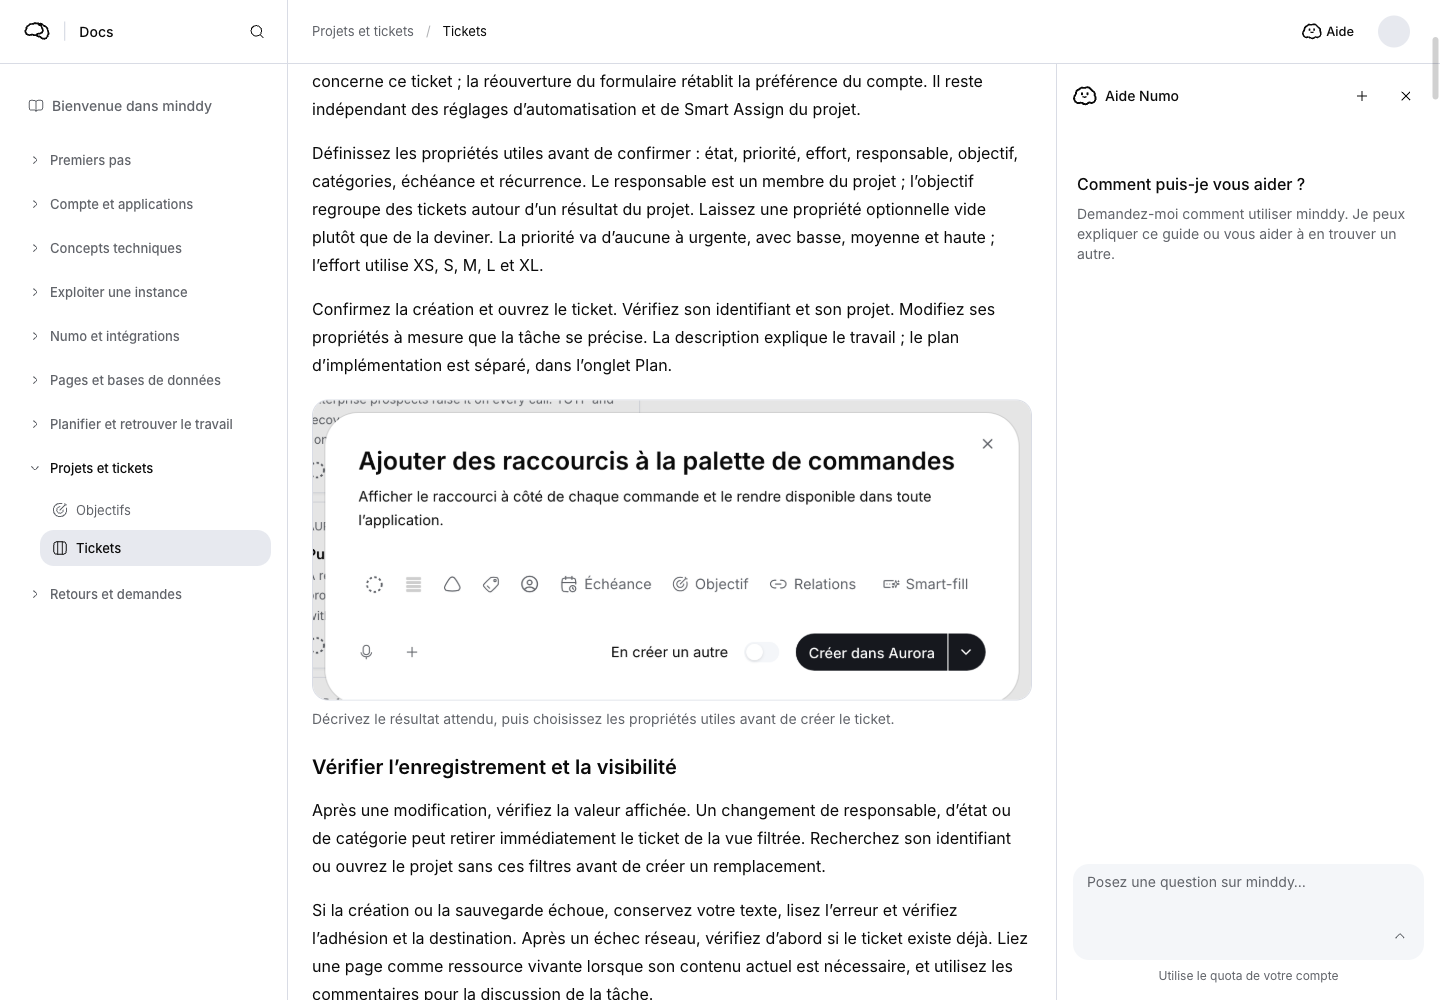
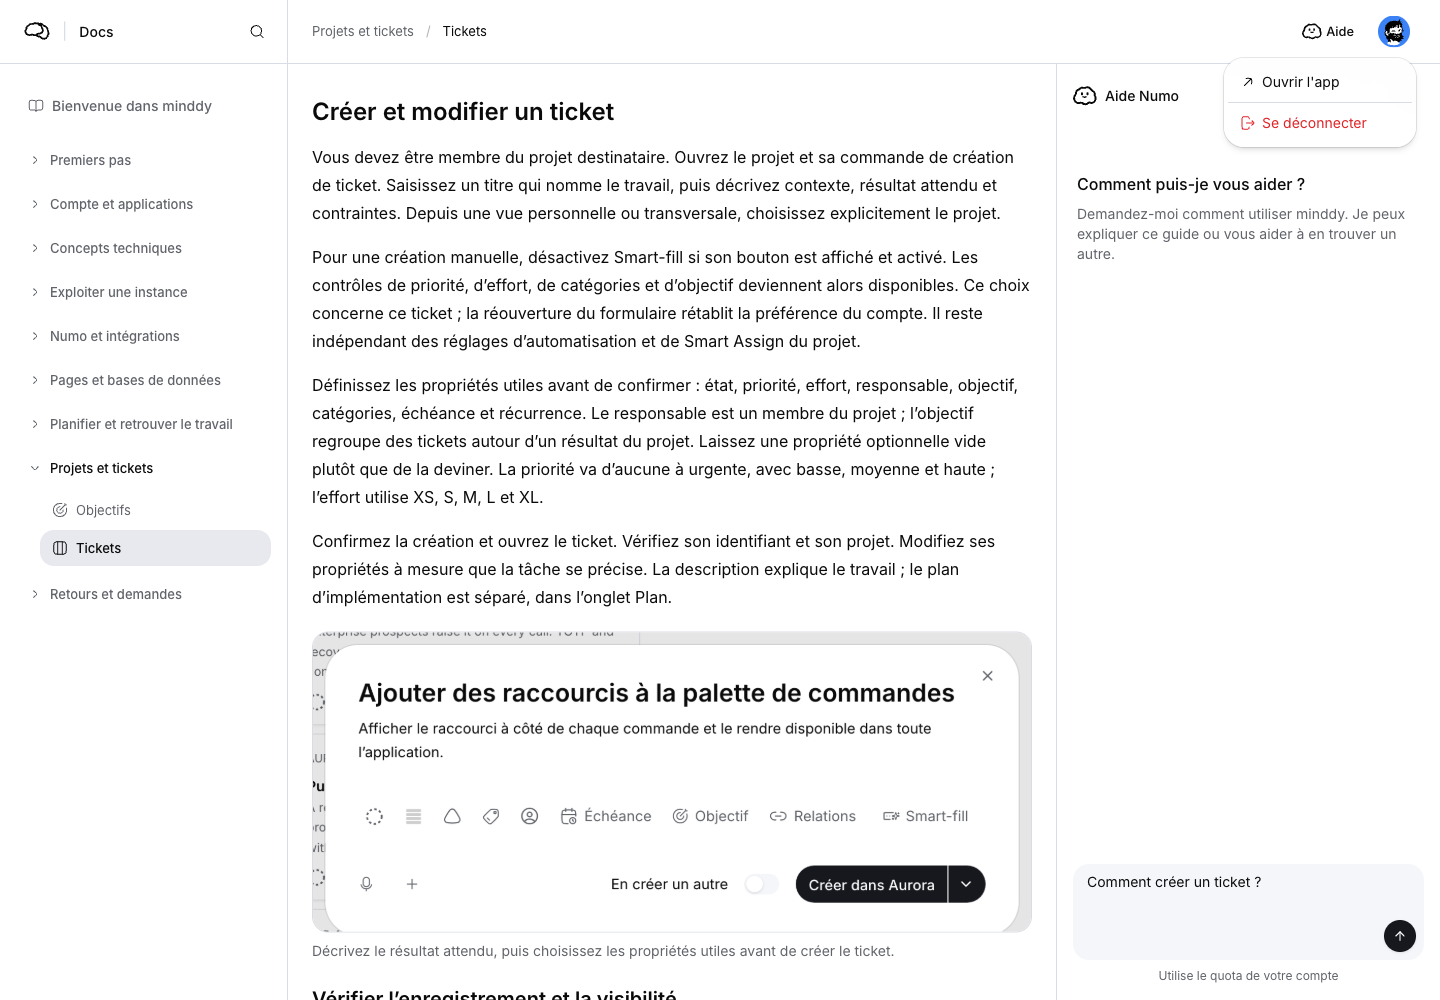
fix: add documentation account menu and reuse Numo send button

diff --git a/components/documentation/documentation-session.tsx b/components/documentation/documentation-session.tsx
@@ -4,13 +4,17 @@ import { createContext, useContext, useEffect, useState, type ReactNode } from "
 import dynamic from "next/dynamic";
 import Link from "next/link";
 import { useTranslations } from "next-intl";
-import { Button } from "mangue-ui";
+import { Button, DropdownMenu, DropdownMenuContent, DropdownMenuItem, DropdownMenuSeparator, DropdownMenuTrigger } from "mangue-ui";
+import { HugeiconsIcon } from "@hugeicons/react";
+import { ArrowUpRight01Icon, LogOutIcon } from "@hugeicons/core-free-icons";
+import { toast } from "sonner";
 import { AuthProvider, useAuth, useAuthOptional } from "@/lib/auth-context";
 import { useRuntimeConfig } from "@/lib/runtime-config-provider";
 import { AccountQueryProvider } from "@/lib/account-query-provider";
 import { useMyAvatarSource } from "@/lib/use-my-avatar";
 import { UserAvatar } from "@/components/user-avatar";
 import { NumoFace } from "@/components/numo-face";
+import { LazyToaster } from "@/components/lazy-toaster";
 import { documentationPath } from "@/lib/documentation-core.mjs";
 import type { Locale } from "@/i18n/config";
 
@@ -31,6 +35,7 @@ function Session({ children, locale }: { children: ReactNode; locale: Locale }) 
   return <SessionContext.Provider value={{ open, setOpen: changeOpen, articleId, setArticleId }}>
     <div data-documentation-numo-open={user && open ? "true" : undefined}>{children}</div>
     {user && activated && <DocumentationNumo key={user.id} open={open} onClose={() => setOpen(false)} articleId={articleId} locale={locale} />}
+    <LazyToaster />
   </SessionContext.Provider>;
 }
 
@@ -64,9 +69,19 @@ function DocumentationGuestActions({ currentId, locale }: { currentId: string | 
 
 function SessionAccountActions({ currentId, locale }: { currentId: string | null; locale: Locale }) {
   const session = useContext(SessionContext)!;
-  const { user, loading } = useAuth();
+  const { user, loading, signOut } = useAuth();
+  const [signingOut, setSigningOut] = useState(false);
   const avatar = useMyAvatarSource();
   const t = useTranslations("Documentation");
+  const handleSignOut = async () => {
+    setSigningOut(true);
+    try {
+      await signOut();
+    } catch {
+      setSigningOut(false);
+      toast.error(t("signOutFailed"));
+    }
+  };
   useEffect(() => session.setArticleId(currentId), [currentId, session.setArticleId]);
   if (loading) return <div aria-busy="true" className="h-9 w-24 animate-pulse rounded bg-muted" />;
   if (!user) return <DocumentationGuestActions currentId={currentId} locale={locale} />;
@@ -74,6 +89,15 @@ function SessionAccountActions({ currentId, locale }: { currentId: string | null
     <Button variant="ghost" size="sm" aria-expanded={session.open} aria-controls="documentation-numo" onClick={() => session.setOpen(!session.open)} data-documentation-numo-launcher>
       <NumoFace className="size-5" />{t("help")}
     </Button>
-    <Link href="/settings?tab=profile" aria-label={t("account")} className="flex size-11 items-center justify-center rounded-full focus-visible:outline-2 focus-visible:outline-ring"><UserAvatar seed={avatar} className="size-8" /></Link>
+    <DropdownMenu>
+      <DropdownMenuTrigger asChild>
+        <Button variant="ghost" size="icon" aria-label={t("account")} className="size-11 rounded-full"><UserAvatar seed={avatar} className="size-8" /></Button>
+      </DropdownMenuTrigger>
+      <DropdownMenuContent align="end">
+        <DropdownMenuItem asChild><Link href="/home"><HugeiconsIcon icon={ArrowUpRight01Icon} aria-hidden />{t("openApp")}</Link></DropdownMenuItem>
+        <DropdownMenuSeparator />
+        <DropdownMenuItem variant="destructive" disabled={signingOut} onSelect={() => { void handleSignOut(); }}><HugeiconsIcon icon={LogOutIcon} aria-hidden />{t("signOut")}</DropdownMenuItem>
+      </DropdownMenuContent>
+    </DropdownMenu>
   </div>;
 }

diff --git a/components/documentation/documentation-numo.tsx b/components/documentation/documentation-numo.tsx
@@ -3,9 +3,9 @@
 import { useEffect, useRef, useState, type ComponentPropsWithoutRef } from "react";
 import Link from "next/link";
 import { useTranslations } from "next-intl";
-import { Button, Sheet, SheetTitle, Spinner, Textarea } from "mangue-ui";
+import { Button, SendButtonWithCost, Sheet, SheetTitle, Spinner, Textarea } from "mangue-ui";
 import { HugeiconsIcon } from "@hugeicons/react";
-import { Add01Icon, ArrowUp01Icon, Cancel01Icon, SquareIcon } from "@hugeicons/core-free-icons";
+import { Add01Icon, Cancel01Icon, SquareIcon } from "@hugeicons/core-free-icons";
 import { MobileSheetContent } from "@/components/ui/mobile-sheet";
 import { useMobileLayout, useMobileViewport } from "@/lib/use-mobile-layout";
 import { useAssistantChat } from "@/lib/use-assistant-chat";
@@ -93,7 +93,7 @@ export function DocumentationNumo({ open, onClose, articleId, locale }: {
         }} />
         {busy
           ? <Button type="button" size="icon" className="absolute bottom-2 right-2 size-8 rounded-full" aria-label={assistant("stop")} onClick={abort}><HugeiconsIcon icon={SquareIcon} className="size-3 fill-current" aria-hidden /></Button>
-          : <Button type="submit" size="icon" className="absolute bottom-2 right-2 size-8 rounded-full" aria-label={assistant("send")} disabled={!draft.trim()}><HugeiconsIcon icon={ArrowUp01Icon} className="size-4" aria-hidden /></Button>}
+          : <div className="absolute bottom-2 right-2"><SendButtonWithCost cost={null} isLoading={false} disabled={!draft.trim()} onClick={submit} ariaLabel={assistant("send")} tooltipLabel={assistant("send")} /></div>}
       </div>
       <p className="text-center text-xs text-muted-foreground">{t("numoUsage")}</p>
     </form>
